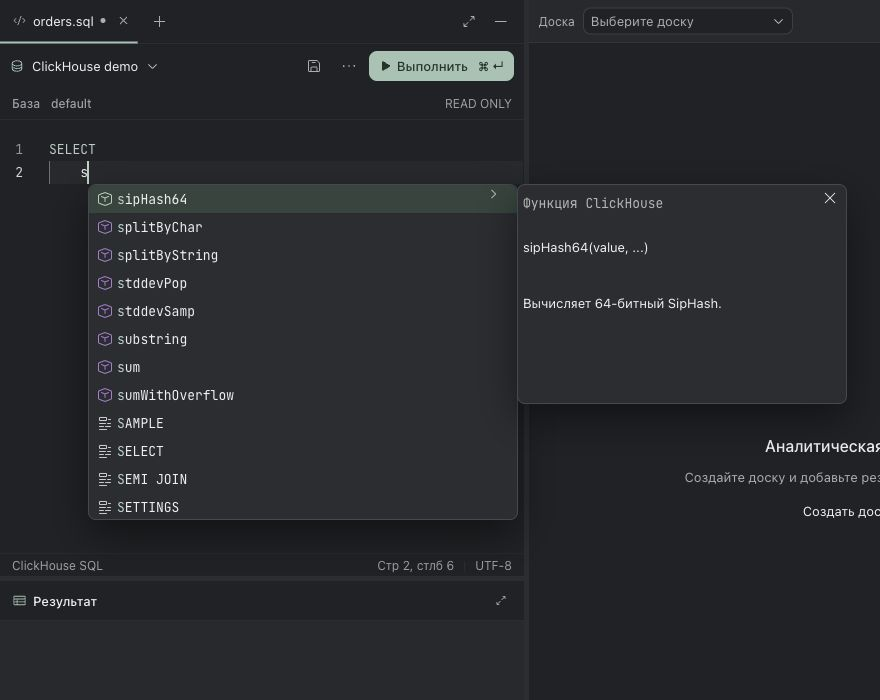
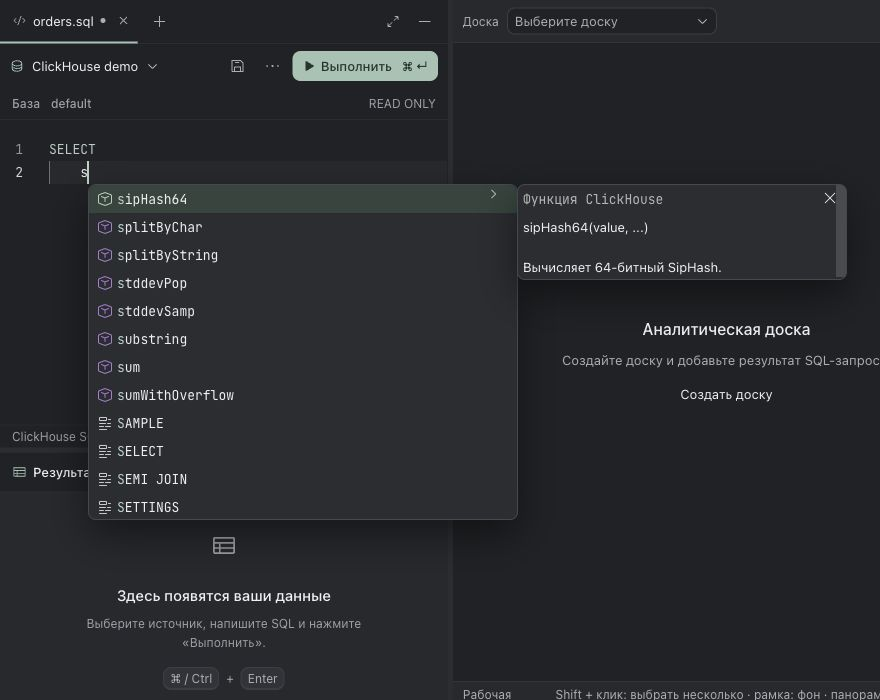
fix: size SQL suggestion details to their content

diff --git a/src/client/styles.css b/src/client/styles.css
@@ -998,6 +998,22 @@ svg {
   border-radius: 8px;
   box-shadow: 0 15px 40px #0007;
 }
+.miracle-editor-overlays .suggest-details {
+  /* Match Monaco's initial width before it measures the text in our zero-width
+     overlay host. Subsequent layout/resizing uses Monaco's inline dimensions. */
+  width: 330px;
+}
+.miracle-editor-overlays .suggest-details .body {
+  line-height: 20px;
+}
+.miracle-editor-overlays
+  .suggest-details.detail-and-doc
+  > .monaco-scrollable-element
+  > .body
+  > .header
+  > .type {
+  padding-bottom: 4px;
+}
 .miracle-editor-overlays .suggest-widget .monaco-list {
   border-radius: 8px;
   overflow: hidden;

diff --git a/docs/release-validation-0.5.1.md b/docs/release-validation-0.5.1.md
@@ -50,7 +50,9 @@
 
 В браузере проверены настоящий SQL-компонент с синтетическими данными и production-сборка на отдельном временном проекте: список выходит за нижнюю и правую границы редактора, вариант за пределами редактора выбирается мышью, ↓/Enter вставляет выбранную функцию, Escape закрывает список. На панели шириной 420 px список остаётся доступен. При размонтировании редактора внешний контейнер удаляется. В production подтверждены автоматическое открытие при вводе, оформление меню и описание функции поверх соседней доски. Запросы к пользовательским источникам не выполнялись.
 
-![Автодополнение и описание функции поверх панелей](assets/release-0.5.1-autocomplete.jpg)
+Описание функции подстраивается по высоте уже при первом открытии: до первого измерения задана начальная ширина Monaco, текст описания использует более компактный межстрочный интервал. В браузере короткое описание занимает 96 px вместо 220 px, более длинное — 116 px, возврат к короткому снова даёт 96 px. Синтетическое описание из 60 строк ограничивается экраном и прокручивается. Повторные production-сборка, браузерная проверка первого открытия и независимое ревью прошли.
+
+![Автодополнение и компактное описание функции поверх панелей](assets/release-0.5.1-autocomplete.jpg)
 
 ## Границы подтверждения
 
